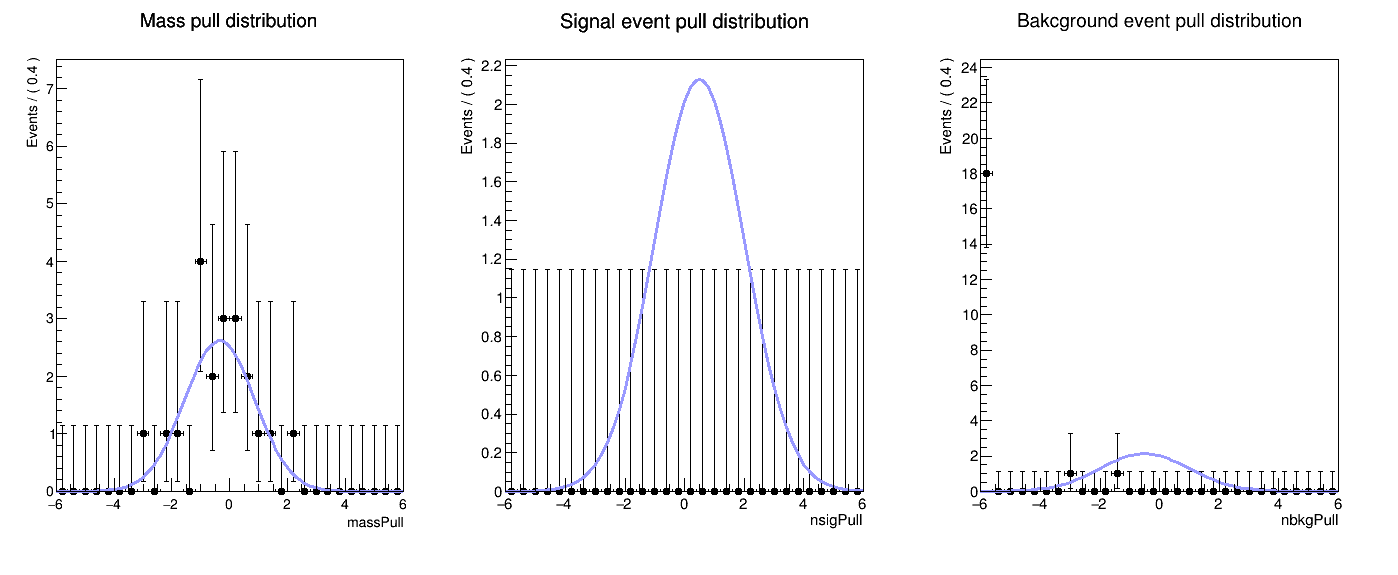
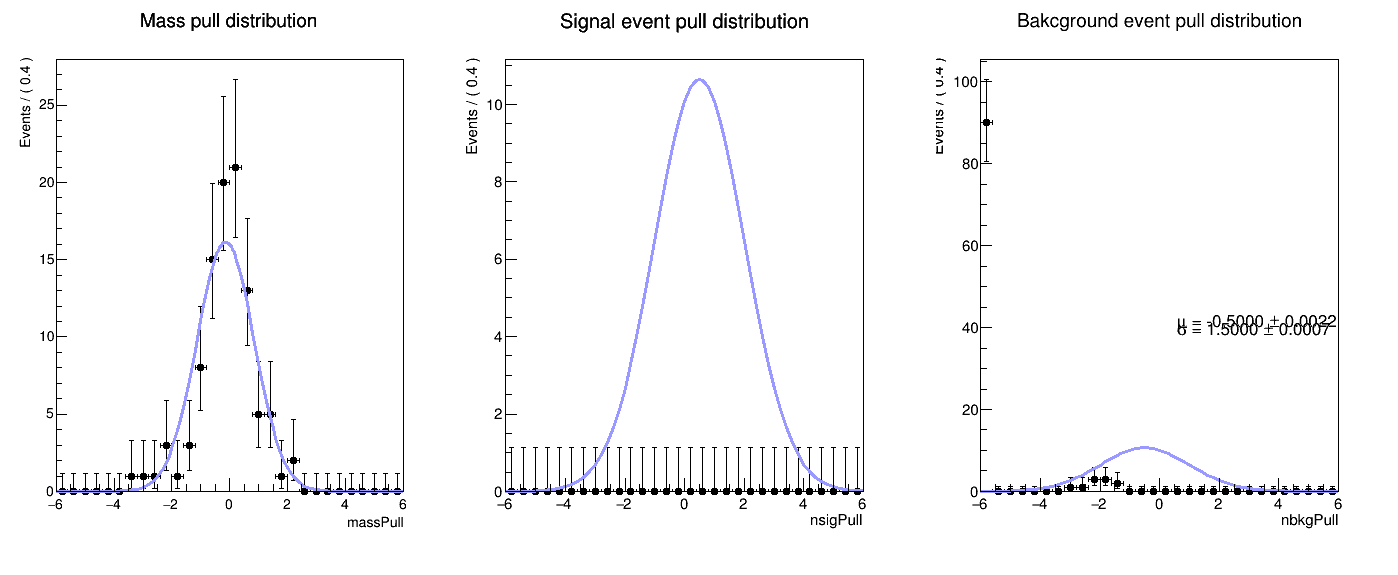
montecarlo

diff --git a/Codes/Josue/montecarlo.C b/Codes/Josue/montecarlo.C
@@ -51,7 +51,7 @@ void montecarlo(){
     RooDataSet nbkgDset("nbkgPULL", "nbkgPULL", RooArgSet(nbkgPull));
 
     RooRandom::randomGenerator()->SetSeed(84329746);
-    for(int i=0; i<20; i++){
+    for(int i=0; i<100; i++){
 
       mean.setVal(meanf); mean.setError(meanfErr);
       sigma.setVal(sigmaf); sigma.setError(sigmafErr);
@@ -76,7 +76,7 @@ void montecarlo(){
       cout << i << endl;
 
       RooDataSet* toyData = model.generate(RooArgSet(m), Extended(kTRUE));
-      RooFitResult* result = model.fitTo(*toyData, Extended(kTRUE), Minos(kFALSE), Save(kTRUE));
+      RooFitResult* result = model.fitTo(*toyData, Extended(kTRUE), Minos(kFALSE), Save(kTRUE), NumCPU(4));
 
       massPull.setVal((mean.getVal() - meanf) / mean.getError());
       mpDset.add(RooArgSet(massPull));
@@ -143,7 +143,7 @@ void montecarlo(){
     RooPlot* bframe = nbkgPull.frame(-6, 6, 30);
     nbkgDset.plotOn(bframe);
     bkgPullGauss.plotOn(bframe, LineColor(kBlue-9));
-    bframe->SetTitle("Bakcground event pull distribution");
+    bframe->SetTitle("Background event pull distribution");
     bframe->Draw();
 
     auto btext = new TLatex();
